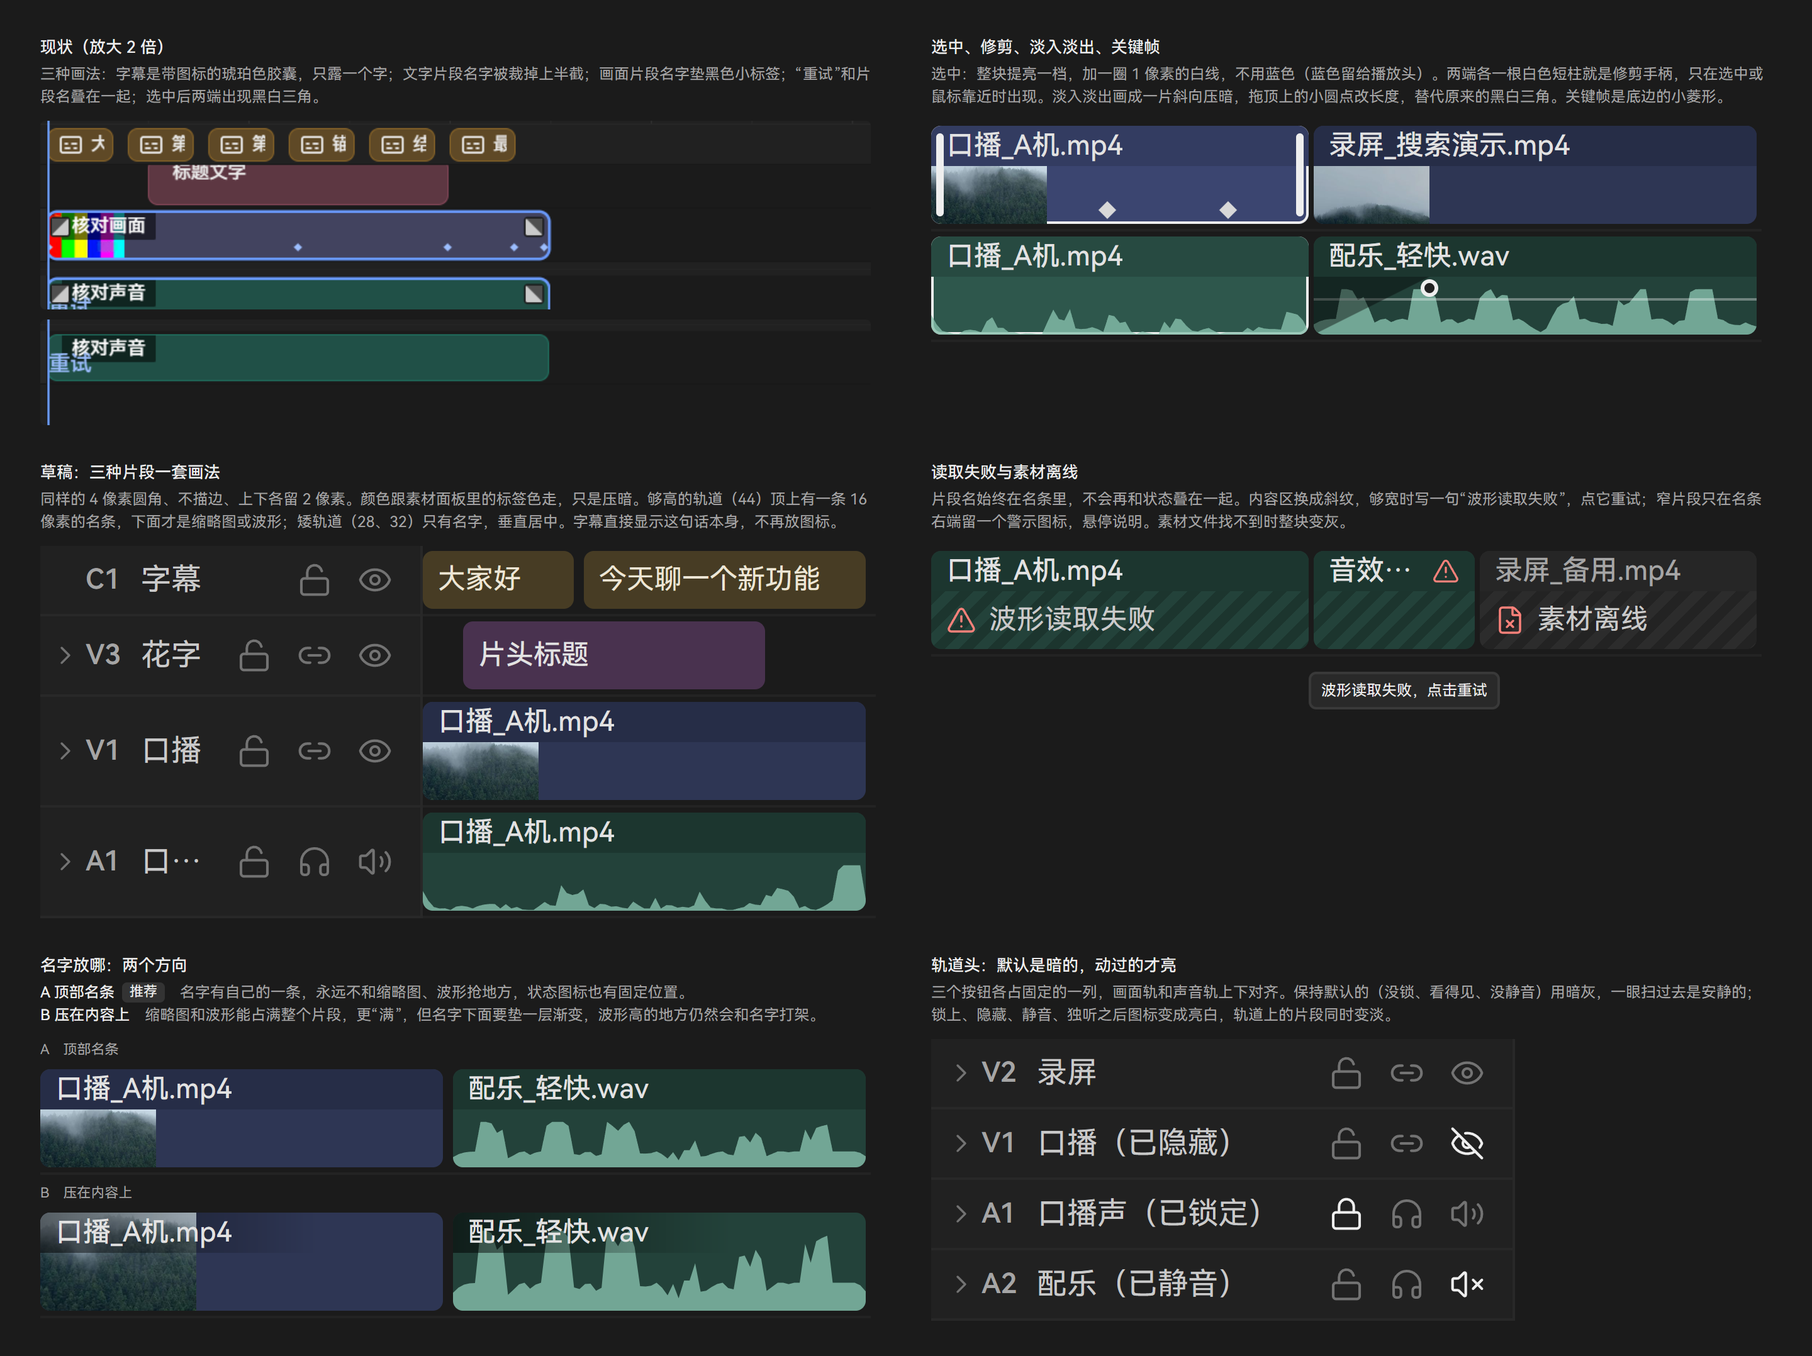
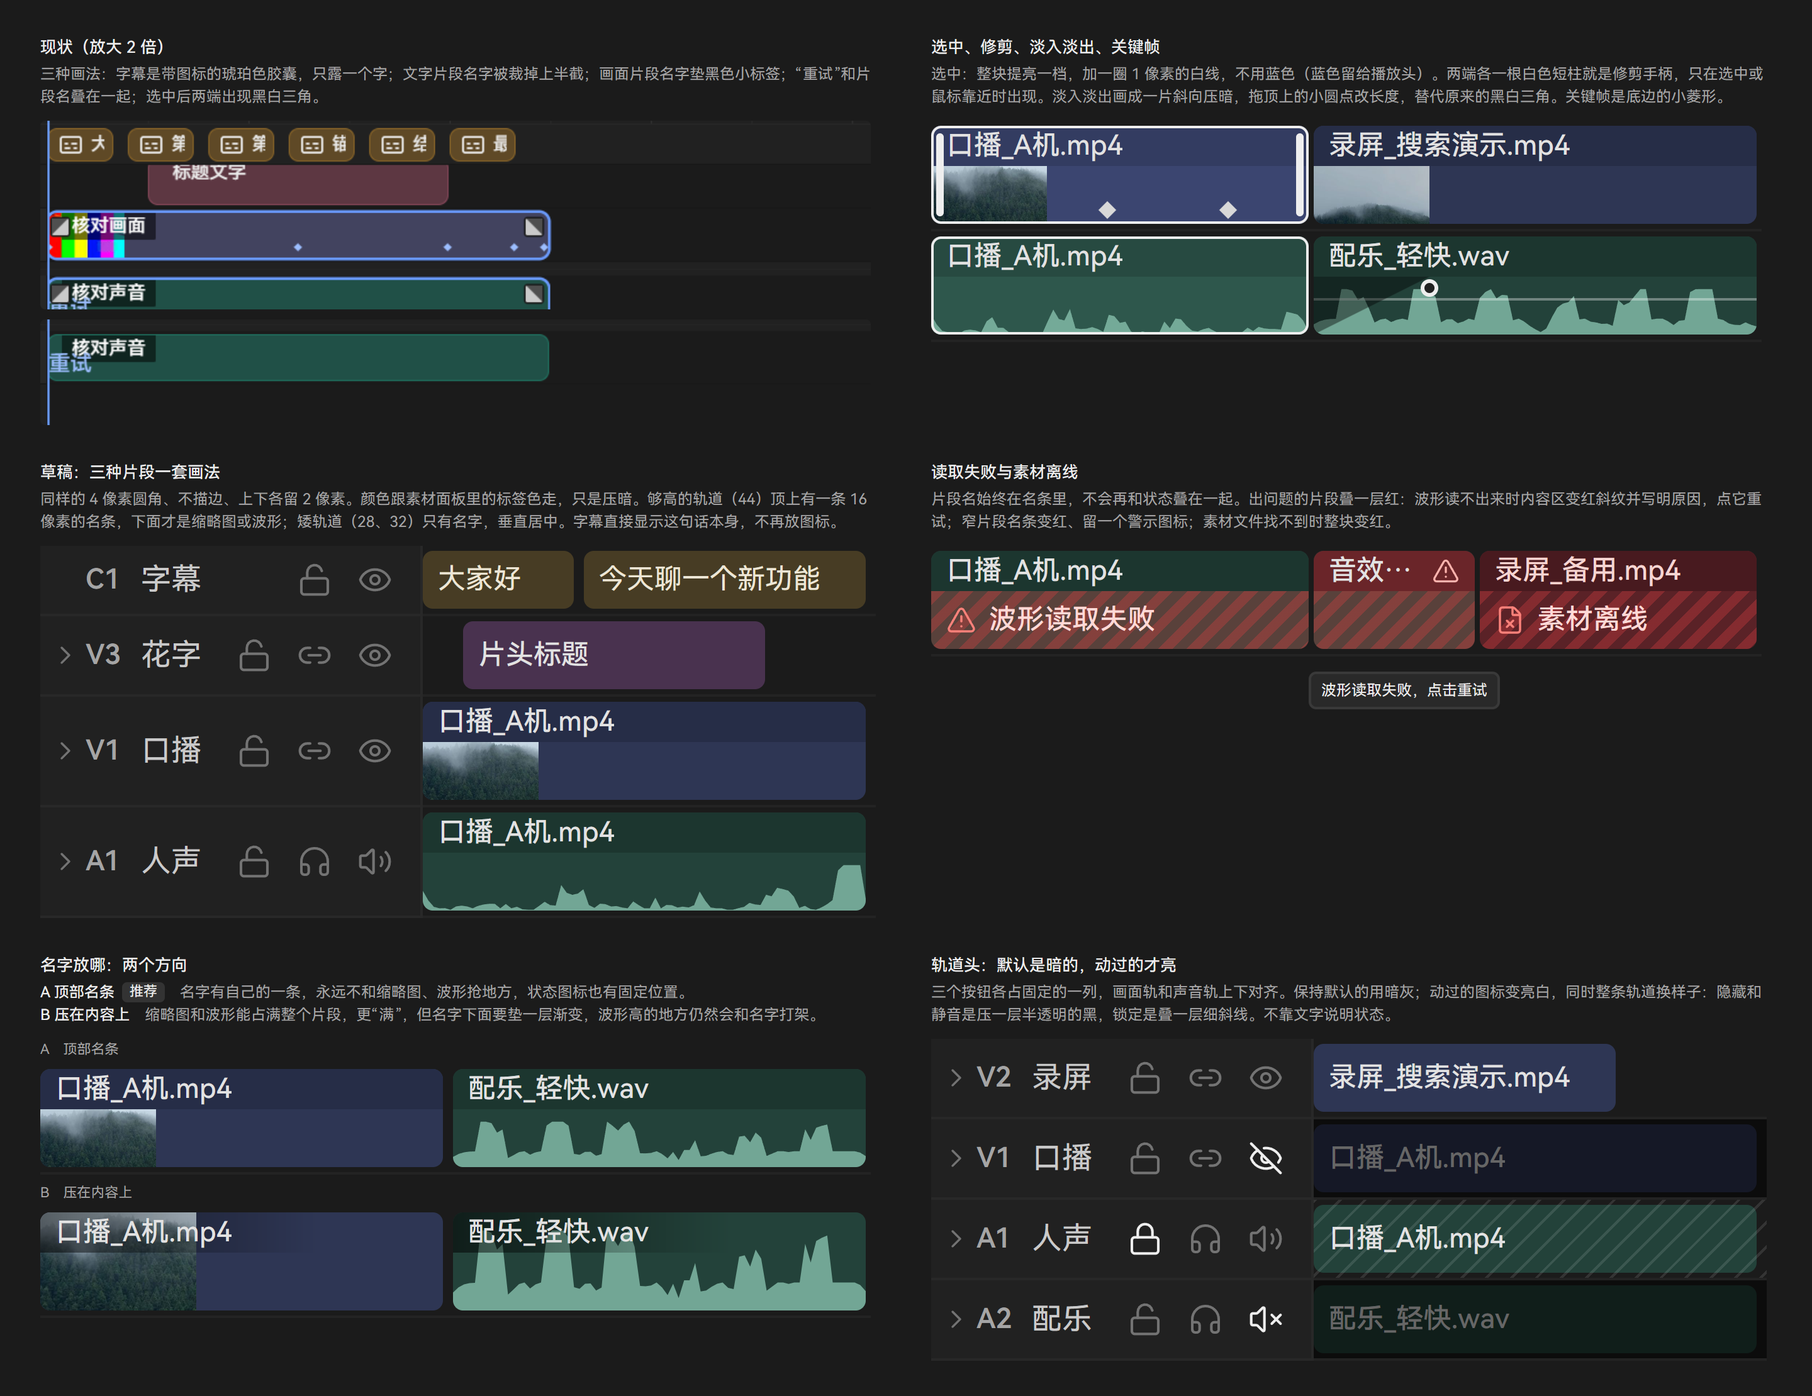
docs(ui): 剪辑样板屏草稿按用户标注修订并记录确认

diff --git a/docs/task/界面样板屏/剪辑/剪辑样板屏草稿.html b/docs/task/界面样板屏/剪辑/剪辑样板屏草稿.html
@@ -159,7 +159,8 @@ body.single.pairmode .tag { display:block; font-size:20px; line-height:28px; mar
 .th.target { background:#242424; }
 .th.target .id { color:var(--text1); }
 .lane { position:relative; border-bottom:1px solid #232323; background:var(--window); }
-.lane.dimmed .clip { opacity:.45; }
+.lane.st-hidden::after, .lane.st-muted::after { content:""; position:absolute; inset:0; background:rgba(0,0,0,.55); z-index:4; }
+.lane.st-locked::after { content:""; position:absolute; inset:0; background:repeating-linear-gradient(135deg, rgba(255,255,255,.11) 0 1px, transparent 1px 7px); z-index:4; }
 .clip { position:absolute; top:2px; bottom:2px; border-radius:4px; overflow:hidden; }
 .clip .strip { position:absolute; left:0; right:0; top:0; height:16px; display:flex; align-items:center; padding:0 6px; gap:4px; font-size:11px; line-height:16px; font-weight:var(--w-medium); color:#E2E2E2; }
 .clip .strip span { overflow:hidden; text-overflow:ellipsis; min-width:0; }
@@ -171,7 +172,7 @@ body.single.pairmode .tag { display:block; font-size:20px; line-height:28px; mar
 .clip.text { background:var(--clip-text); } .clip.text .strip { background:var(--clip-text-strip); }
 .clip.caption { background:var(--clip-caption); }
 .clip.caption .strip { font-weight:var(--w-normal); color:#EDE6D6; }
-.clip.sel { box-shadow:inset 0 0 0 1px var(--text1); }
+.clip.sel::after { content:""; position:absolute; inset:0; border-radius:4px; box-shadow:inset 0 0 0 1px var(--text1); z-index:3; pointer-events:none; }
 .clip.video.sel { background:var(--clip-video-sel); } .clip.video.sel .strip { background:#333C61; }
 .clip.audio.sel { background:var(--clip-audio-sel); } .clip.audio.sel .strip { background:#274A41; }
 .clip.text.sel { background:var(--clip-text-sel); } .clip.text.sel .strip { background:#513858; }
@@ -187,7 +188,12 @@ body.single.pairmode .tag { display:block; font-size:20px; line-height:28px; mar
 .clip .hatch { position:absolute; inset:0; background:repeating-linear-gradient(135deg, rgba(0,0,0,.2) 0 4px, transparent 4px 8px); }
 .clip .msg { position:absolute; left:6px; top:0; bottom:0; display:flex; align-items:center; gap:5px; font-size:11px; color:var(--text2); --s:12px; }
 .clip .msg svg, .clip .st.err { color:var(--danger-text); }
-.clip.offline { background:#2C2C2C !important; } .clip.offline .strip { background:#262626 !important; color:var(--text3); }
+.clip.failed .body { background:rgba(215,62,63,.30); }
+.clip.failed .hatch, .clip.offline .hatch { background:repeating-linear-gradient(135deg, rgba(215,62,63,.34) 0 4px, transparent 4px 8px); }
+.clip.failed .msg, .clip.offline .msg { color:#FFD9D6; font-weight:var(--w-medium); }
+.clip.failed.narrow .strip, .clip.offline.narrow .strip { background:#6A2529 !important; }
+.clip.failed .st.err, .clip.offline .st.err { color:#FFB4AE; }
+.clip.offline { background:#5A2227 !important; } .clip.offline .strip { background:#481A1F !important; color:#F6D5D2; }
 .clip .vol { position:absolute; left:0; right:0; height:1px; background:rgba(255,255,255,.35); }
 .playhead { position:absolute; top:0; bottom:0; width:1px; background:var(--accent-ring); z-index:5; pointer-events:none; }
 .playhead::before { content:''; position:absolute; left:-5px; top:0; width:11px; height:13px; background:var(--accent-ring); clip-path:polygon(0 0,100% 0,100% 62%,50% 100%,0 62%); border-radius:2px; }
@@ -263,14 +269,19 @@ body.single.pairmode .tag { display:block; font-size:20px; line-height:28px; mar
 
 /* 浮层 */
 .ovl { position:absolute; background:var(--overlay); border:1px solid var(--line-overlay); z-index:20; }
-.menu { border-radius:8px; padding:4px; min-width:208px; font-size:13px; }
+.menu { border-radius:8px; padding:4px; min-width:232px; font-size:13px; }
 .menu .mi { height:28px; display:flex; align-items:center; padding:0 8px 0 6px; border-radius:6px; gap:8px; color:var(--text1); --s:14px; }
 .menu .mi .ck { width:14px; color:var(--accent-text); display:flex; }
-.menu .mi .k { margin-left:auto; padding-left:24px; font-size:11px; color:var(--icon-rest); }
+.menu .mi .k { margin-left:auto; padding-left:32px; font-size:12px; color:var(--text3); }
 .menu .mi .k svg { color:var(--icon-rest); }
 .menu .mi.hov { background:#353535; }
 .menu .mi.dis { color:var(--text-disabled); }
 .menu .ms { height:1px; background:var(--line-overlay); margin:4px 6px; }
+.frame .ferr { position:absolute; inset:0; background:#241214 repeating-linear-gradient(135deg, rgba(215,62,63,.10) 0 10px, transparent 10px 20px); display:flex; flex-direction:column; align-items:center; justify-content:center; white-space:normal; text-align:center; }
+.frame .ferr .fi { color:var(--danger-text); --s:36px; margin-bottom:12px; } .frame .ferr .fi svg { stroke-width:1.5; }
+.frame .ferr .ft { font-size:20px; line-height:28px; font-weight:560; color:var(--text1); }
+.frame .ferr .fm { font-size:13px; line-height:20px; color:var(--text2); margin:4px 0 16px; }
+.frame .ferr .fa { display:flex; gap:8px; } .frame .ferr .fa .btn { height:32px; padding:0 14px; }
 .errbar { left:12px; bottom:12px; border-radius:8px; padding:8px 8px 8px 12px; display:flex; align-items:center; gap:10px; max-width:520px; }
 .errbar .ei { color:var(--danger-text); --s:16px; }
 .errbar .et { font-size:13px; line-height:18px; font-weight:var(--w-medium); }
@@ -322,7 +333,7 @@ const wave = (seed, n, env) => `<div class="wave"><svg viewBox="0 0 100 100" pre
 const PX = 48; // 每秒像素
 function clip(c){
   const x = c.x!==undefined ? c.x : c.s*PX, w = c.w!==undefined ? c.w : c.d*PX - 1;
-  const cls = ['clip', c.t, c.sel?'sel':'', c.flat?'flat':'', c.offline?'offline':''].join(' ');
+  const cls = ['clip', c.t, c.sel?'sel':'', c.flat?'flat':'', c.offline?'offline':'', c.fail?'failed':'', ((c.fail&&w<=110)||(c.offline&&w<=90))?'narrow':''].join(' ');
   let body = '';
   if(c.thumb) body += `<div class="thumb" style="width:${c.thumbW||46}px;background-image:url('素材/${c.thumb}')"></div>`;
   if(c.thumbEnd) body += `<div class="thumb" style="left:auto;right:0;width:${c.thumbW||46}px;background-image:url('素材/${c.thumbEnd}')"></div>`;
@@ -418,10 +429,11 @@ function project(){
 function program(o){
   let ticks=''; for(let i=0;i<=46;i++){ ticks += `<i class="tick ${i%4===0?'maj':''}" style="left:${12+i*17.6}px"></i>`; if(i%8===0) ticks += `<span class="lab num" style="left:${12+i*17.6+4}px">00:${String(i/4).padStart(2,'0')}</span>`; }
   const selbox = o.sel==='text' ? `<div class="selbox" style="left:7%;top:27%;width:50%;height:22%"><i style="left:-4px;top:-4px"></i><i style="right:-4px;top:-4px"></i><i style="left:-4px;bottom:-4px"></i><i style="right:-4px;bottom:-4px"></i></div>` : '';
-  const err = o.err ? `<div class="ovl errbar"><span class="ei">${I('triangle-alert')}</span><div><div class="et">这段视频解不出画面</div><div class="em">换一个文件，或在素材上右键重新链接</div></div><div class="acts"><span class="btn sm" style="color:var(--text2)">详情</span><span class="btn sm secondary">重新链接</span></div></div>` : '';
+  const err = o.warn ? `<div class="ovl errbar"><span class="ei" style="color:var(--warning-text)">${I('triangle-alert')}</span><div><div class="et">有 1 个效果先没显示</div><div class="em">“人声降噪”出错了，其余照常</div></div><div class="acts"><span class="btn sm secondary">详情</span></div></div>` : '';
+  const ferr = `<div class="ferr"><span class="fi">${I('file-x')}</span><div class="ft">这段视频解不出画面</div><div class="fm">口播_A机.mp4　换一个文件，或重新链接到原来的文件</div><div class="fa"><span class="btn secondary">重新链接</span><span class="btn">详情</span></div></div>`;
   return `<div class="panel" style="flex:1">
     <div class="tabs"><span class="tab cur">节目画面</span><span class="tab">源监视器</span></div>
-    <div class="viewer"><div class="frame" style="width:592px;height:333px;background-image:${o.err?'none':"url('素材/画面-山林.jpg')"}">${o.err?'':`<div class="ttl"><small>新品开箱</small>三分钟看懂新功能</div><div class="cap">今天聊一个新功能</div>${selbox}`}</div>${err}</div>
+    <div class="viewer"><div class="frame" style="width:592px;height:333px;background-image:${o.err?'none':"url('素材/画面-山林.jpg')"}">${o.err?ferr:`<div class="ttl"><small>新品开箱</small>三分钟看懂新功能</div><div class="cap">今天聊一个新功能</div>${selbox}`}</div>${err}</div>
     <div class="scrub">${ticks}<i class="ph" style="left:${12+3.2*70.4}px"></i></div>
     <div class="transport"><span class="tc num">00:00:03:12<small>/ 00:00:11:36</small></span>
       <div class="mid">
@@ -545,7 +557,7 @@ function inspColor(o){
   <div class="foot"><span class="status">已调整 4 项</span><span class="btn sm" style="color:var(--text2);--s:14px">${I('wand-sparkles')}自动</span>${ib('square-split-horizontal','rest')}${ib('file-output','rest')}${ib('rotate-ccw','rest')}</div></div>`; }
 
 function ctxMenu(x,y){ const mi=(t,k,o={})=>`<div class="mi ${o.hov?'hov':''} ${o.dis?'dis':''}"><span class="ck">${o.ck?I('check'):''}</span>${t}<span class="k num">${o.sub?I('chevron-right',12):(k||'')}</span></div>`;
-  return `<div class="ovl menu" style="left:${x}px;top:${y}px">${mi('剪切','Ctrl+X')}${mi('复制','Ctrl+C')}${mi('粘贴属性…','Ctrl+Alt+V',{dis:1})}<div class="ms"></div>${mi('速度与时长…','Ctrl+R',{hov:1})}${mi('定格帧','',{sub:1})}${mi('嵌套…')}${mi('发送到','',{sub:1})}<div class="ms"></div>${mi('启用','Shift+E',{ck:1})}${mi('取消链接','Ctrl+L')}<div class="ms"></div>${mi('波纹删除','Shift+Delete')}</div>`; }
+  return `<div class="ovl menu" style="left:${x}px;top:${y}px">${mi('剪切','Ctrl+X')}${mi('复制','Ctrl+C')}${mi('粘贴属性','Ctrl+Alt+V',{dis:1})}<div class="ms"></div>${mi('速度与时长','Ctrl+R',{hov:1})}${mi('定格帧','',{sub:1})}${mi('嵌套')}${mi('发送到','',{sub:1})}<div class="ms"></div>${mi('启用','Shift+E',{ck:1})}${mi('取消链接','Ctrl+L')}<div class="ms"></div>${mi('波纹删除','Shift+Delete')}</div>`; }
 function dialog(){ return `<div class="scrim"><div class="ovl dialog"><span class="di">${I('trash-2')}</span><div><div class="dt">删除素材箱“04_场景”？</div><div class="dm">箱里的 12 个素材会一起移到回收区。时间线上用到它们的 5 个片段会显示为离线，从回收区恢复后自动接回。</div><div class="da"><span class="btn secondary">取消</span><span class="btn danger-solid">删除</span></div></div></div></div>`; }
 
 function app(o){
@@ -576,9 +588,9 @@ function sheetTimeline(){
         ${th({id:'C1',nm:'字幕',kind:'c'})}<div class="lane" style="height:28px">${clip({t:'caption',flat:1,x:0,w:60,n:'大家好'})}${clip({t:'caption',flat:1,x:64,w:112,n:'今天聊一个新功能'})}</div>
         ${th({id:'V3',nm:'花字',kind:'v',h:32})}<div class="lane" style="height:32px">${clip({t:'text',flat:1,x:16,w:120,n:'片头标题'})}</div>
         ${th({id:'V1',nm:'口播',kind:'v',h:44})}<div class="lane" style="height:44px">${clip({t:'video',x:0,w:176,n:'口播_A机.mp4',thumb:'缩略-山林近.jpg'})}</div>
-        ${th({id:'A1',nm:'口播声',kind:'a',h:44})}<div class="lane" style="height:44px">${clip({t:'audio',x:0,w:176,n:'口播_A机.mp4',wave:7})}</div>
+        ${th({id:'A1',nm:'人声',kind:'a',h:44})}<div class="lane" style="height:44px">${clip({t:'audio',x:0,w:176,n:'口播_A机.mp4',wave:7})}</div>
       </div></div></div>
-    <div class="ex"><h3>读取失败与素材离线</h3><p>片段名始终在名条里，不会再和状态叠在一起。内容区换成斜纹，够宽时写一句“波形读取失败”，点它重试；窄片段只在名条右端留一个警示图标，悬停说明。素材文件找不到时整块变灰。</p>
+    <div class="ex"><h3>读取失败与素材离线</h3><p>片段名始终在名条里，不会再和状态叠在一起。出问题的片段叠一层红：波形读不出来时内容区变红斜纹并写明原因，点它重试；窄片段名条变红、留一个警示图标；素材文件找不到时整块变红。</p>
       <div class="z"><div class="rows" style="position:relative;padding-bottom:18px">
         ${lane(44,[{t:'audio',x:0,w:150,n:'口播_A机.mp4',fail:'波形读取失败'},{t:'audio',x:152,w:64,n:'音效_提示.wav',fail:'波形读取失败'},{t:'video',x:218,w:110,n:'录屏_备用.mp4',offline:1}])}
         <div class="ovl tip" style="left:150px;top:50px;font-size:6px;line-height:9px;padding:2px 4px;border-radius:3px">波形读取失败，点击重试</div>
@@ -588,9 +600,12 @@ function sheetTimeline(){
         ${cap('A　顶部名条')}${lane(44,[{t:'video',x:0,w:160,n:'口播_A机.mp4',thumb:'缩略-山林近.jpg'},{t:'audio',x:164,w:164,n:'配乐_轻快.wav',wave:23}])}
         ${cap('B　压在内容上')}${lane(44,[{t:'video',x:0,w:160,n:'口播_A机.mp4',thumb:'缩略-山林近.jpg',thumbW:62,nameOver:1},{t:'audio',x:164,w:164,n:'配乐_轻快.wav',wave:23,nameOver:1}])}
       </div></div></div>
-    <div class="ex"><h3>轨道头：默认是暗的，动过的才亮</h3><p>三个按钮各占固定的一列，画面轨和声音轨上下对齐。保持默认的（没锁、看得见、没静音）用暗灰，一眼扫过去是安静的；锁上、隐藏、静音、独听之后图标变成亮白，轨道上的片段同时变淡。</p>
-      <div class="z"><div style="width:232px">
-        ${th({id:'V2',nm:'录屏',kind:'v'})}${th({id:'V1',nm:'口播（已隐藏）',kind:'v',hidden:1})}${th({id:'A1',nm:'口播声（已锁定）',kind:'a',locked:1})}${th({id:'A2',nm:'配乐（已静音）',kind:'a',muted:1})}
+    <div class="ex"><h3>轨道头：默认是暗的，动过的才亮</h3><p>三个按钮各占固定的一列，画面轨和声音轨上下对齐。保持默认的用暗灰；动过的图标变亮白，同时整条轨道换样子：隐藏和静音是压一层半透明的黑，锁定是叠一层细斜线。不靠文字说明状态。</p>
+      <div class="z"><div class="minitl">
+        ${th({id:'V2',nm:'录屏',kind:'v',h:32})}<div class="lane" style="height:32px">${clip({t:'video',flat:1,x:0,w:120,n:'录屏_搜索演示.mp4'})}</div>
+        ${th({id:'V1',nm:'口播',kind:'v',hidden:1,h:32})}<div class="lane st-hidden" style="height:32px">${clip({t:'video',flat:1,x:0,w:176,n:'口播_A机.mp4'})}</div>
+        ${th({id:'A1',nm:'人声',kind:'a',locked:1,h:32})}<div class="lane st-locked" style="height:32px">${clip({t:'audio',flat:1,x:0,w:176,n:'口播_A机.mp4'})}</div>
+        ${th({id:'A2',nm:'配乐',kind:'a',muted:1,h:32})}<div class="lane st-muted" style="height:32px">${clip({t:'audio',flat:1,x:0,w:176,n:'配乐_轻快.wav'})}</div>
       </div></div></div>
   </div>`;
 }
@@ -615,9 +630,9 @@ const SCREENS = [
     note:'示波器有自己的内边距，亮度曲线只描线；读数并成一行，只有超标的那一项用警告色。改过的值亮、默认值暗。三个说不清用途的图标搬到底栏并恢复正常亮度：前后对比、导出 LUT、重置。色轮完整显示，不会被切掉。',
     html: () => app({sel:'v2', insp:'color', focus:'insp'}) },
   { id:4, title:'④ 时间线细节（放大 2 倍）', before:null, note:'', html: sheetTimeline },
-  { id:5, title:'⑤ 状态与反馈：画面出错的浮条、右键菜单压在面板上、片段读取失败', before:'现状/05-菜单压在面板上.png',
-    note:'浮层一律实底加一圈描边，不用投影。报错只有图标是红的，标题说发生了什么，下面一行说能做什么。',
-    html: () => app({sel:'v2', insp:'video', focus:'timeline', err:1, fail:1, menu:[708,538]}) },
+  { id:5, title:'⑤ 状态与反馈：画面里的报错、右键菜单压在面板上、片段读取失败', before:'现状/05-菜单压在面板上.png',
+    note:'画面解不出来时，报错直接占满节目画面（像素材脱机的提示那样醒目）。不影响出画面的小问题才用左下角的小条。浮层一律实底加一圈描边，不用投影。',
+    html: () => app({sel:'v2', insp:'video', focus:'timeline', err:1, fail:1, menu:[708,530]}) },
   { id:6, title:'⑥ 确认弹窗', before:null, note:'图标单独在左，标题和正文在右边同一列，按钮靠右。只有“删除”是红色实底。', html: () => app({sel:'v1', focus:'timeline', dialog:1}) },
   { id:7, title:'⑦ 备选：属性行的数值放哪', before:null, note:'', html: sheetRows },
 ];

diff --git a/docs/task/界面样板屏/剪辑/设计说明.md b/docs/task/界面样板屏/剪辑/设计说明.md
@@ -1,6 +1,15 @@
 # 剪辑样板屏 · 设计说明
 
-状态：**草稿，等用户确认**。确认前不改任何源码。
+状态：**2026-11-10 用户确认方向，开始按草稿实现。** 两处备选没有另外指定，按推荐做：片段名用顶部名条，属性行数值紧跟名字。第四节七条突破随草稿一并生效。
+
+验收方式：每做完一块，把真界面截图和草稿并排比，对不上就继续改。
+
+用户确认时追加的五条（已改进草稿）：
+1. 画面解不出来时，报错直接占满节目画面，要醒目（参照 Premiere 的脱机素材提示）；左下角小条只留给不影响出画面的提示。
+2. 菜单内容要显示完整：菜单项不带省略号，快捷键一列留够宽度。
+3. 出问题的片段叠一层红（波形读取失败是内容区红斜纹，素材离线整块变红）。
+4. 选中描边四边都要完整（草稿里曾被名条盖住上边）。
+5. 轨道状态不用文字，用样式：隐藏、静音压一层半透明的黑，锁定叠一层细斜线。
 
 - 草稿页面：[剪辑样板屏草稿.html](剪辑样板屏草稿.html)（双击用浏览器打开；地址后加 `?s=1` 到 `?s=7` 只看某一屏原尺寸）
 - 渲染好的图：[预览/](预览/)（“对比”是现状与草稿并排，“草稿”是 2 倍清晰度的单张）
@@ -104,7 +113,8 @@
 - 修剪手柄：两端各一根 3 像素的白色短柱。
 - 淡入淡出：一片斜向压暗，顶端一个小圆点可拖。
 - 关键帧：底边 5 像素小菱形。
-- 读取失败：内容区换成斜纹；够宽写“波形读取失败”，窄的只在名条右端留红色警示图标。素材离线整块变灰。
+- 读取失败：内容区叠红色斜纹；够宽写“波形读取失败”，窄的名条变红并留警示图标。素材离线整块变红。
+- 轨道状态：隐藏、静音整条轨道压半透明黑；锁定叠细斜线。
 - 播放头 1 像素，头部在刻度行；标记是刻度行顶上的小旗，用标记自己的颜色。
 
 ### 属性面板的一行
